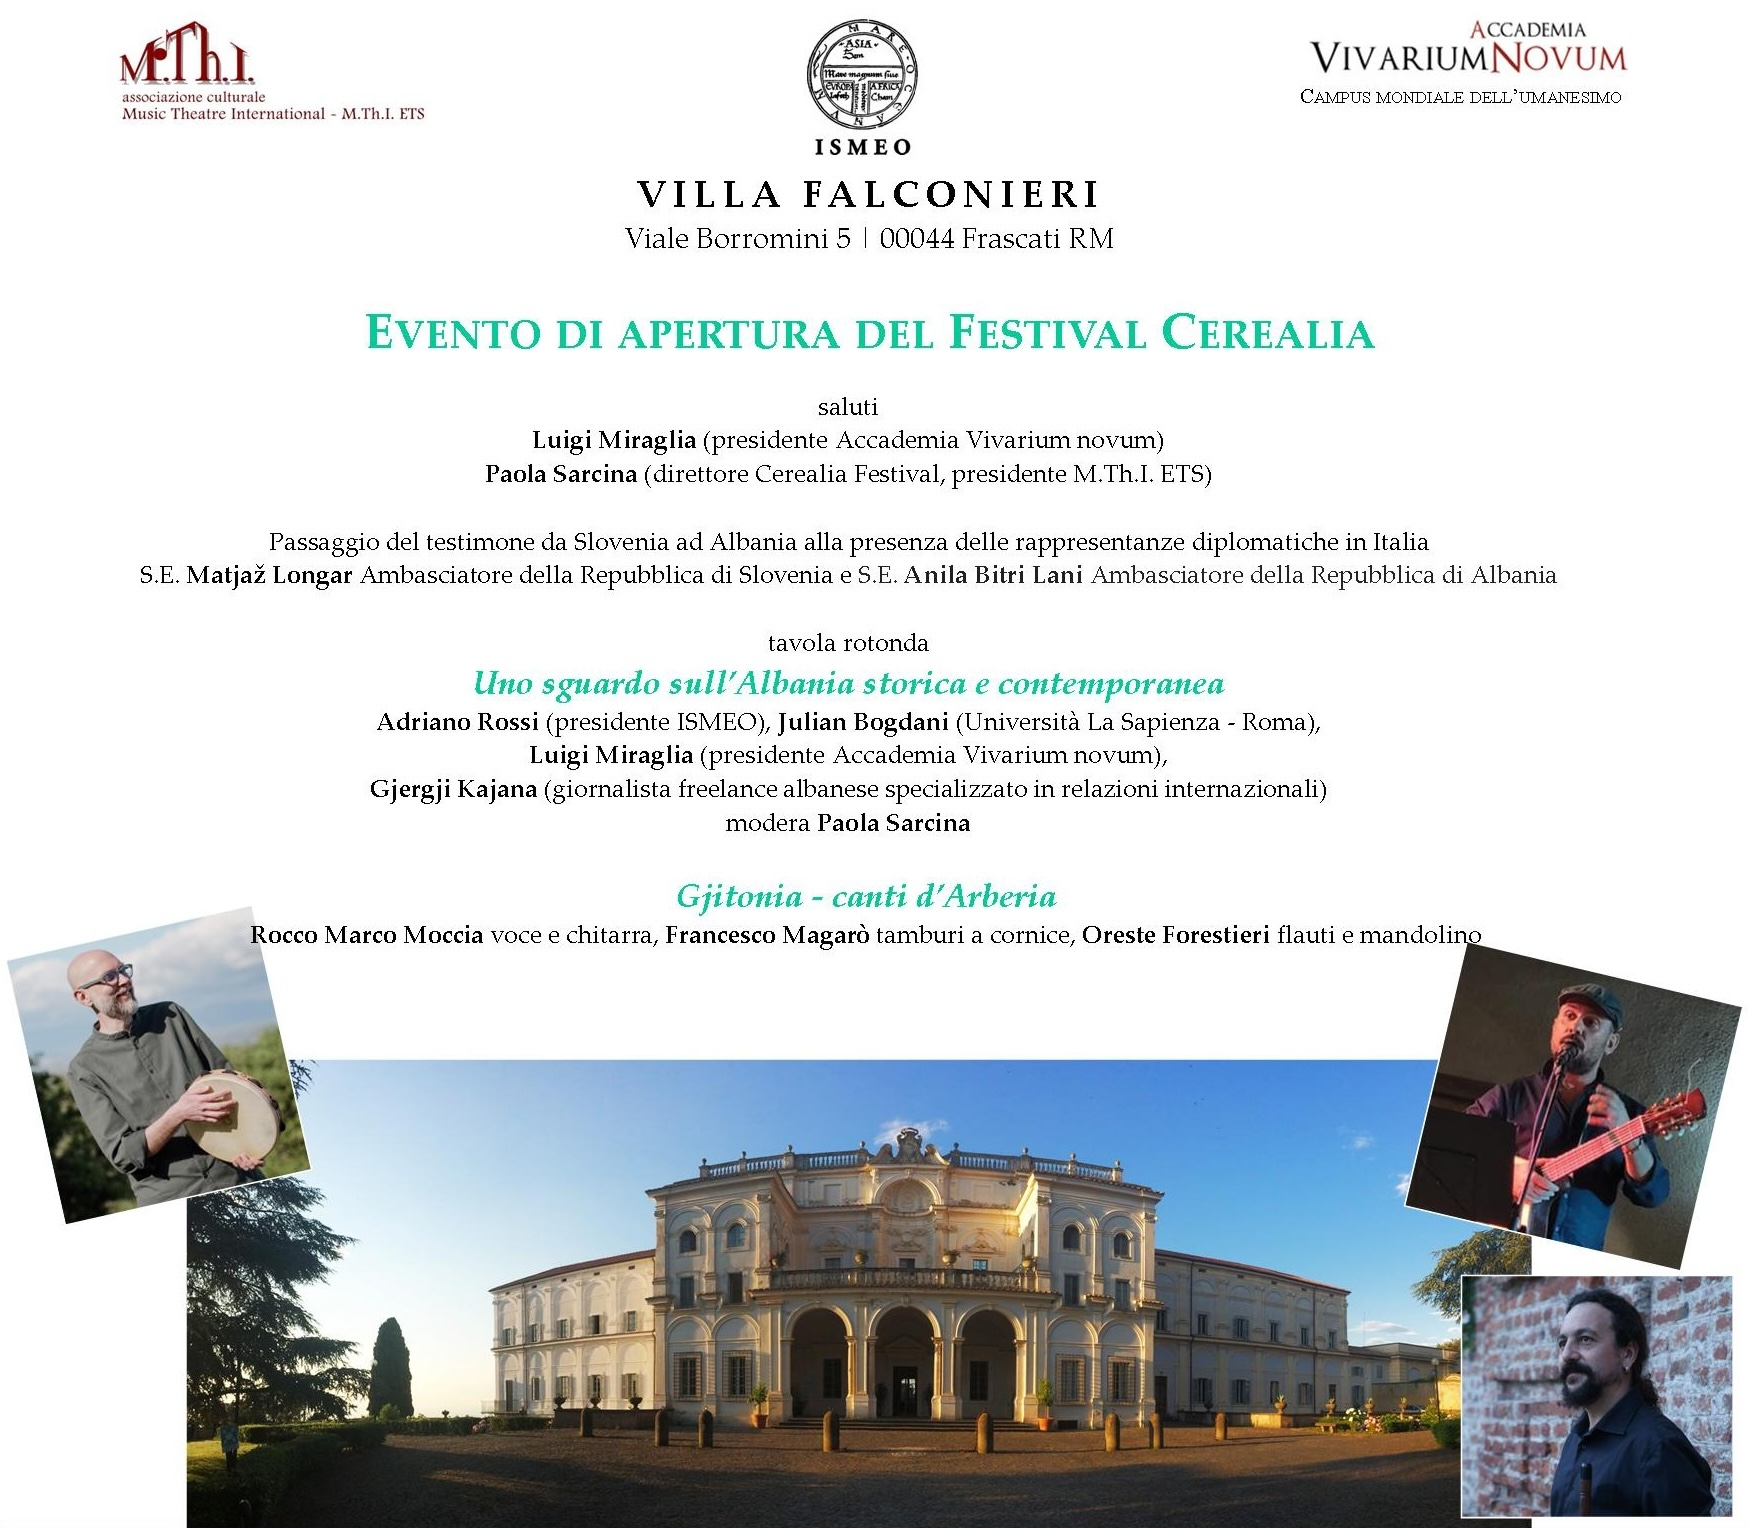
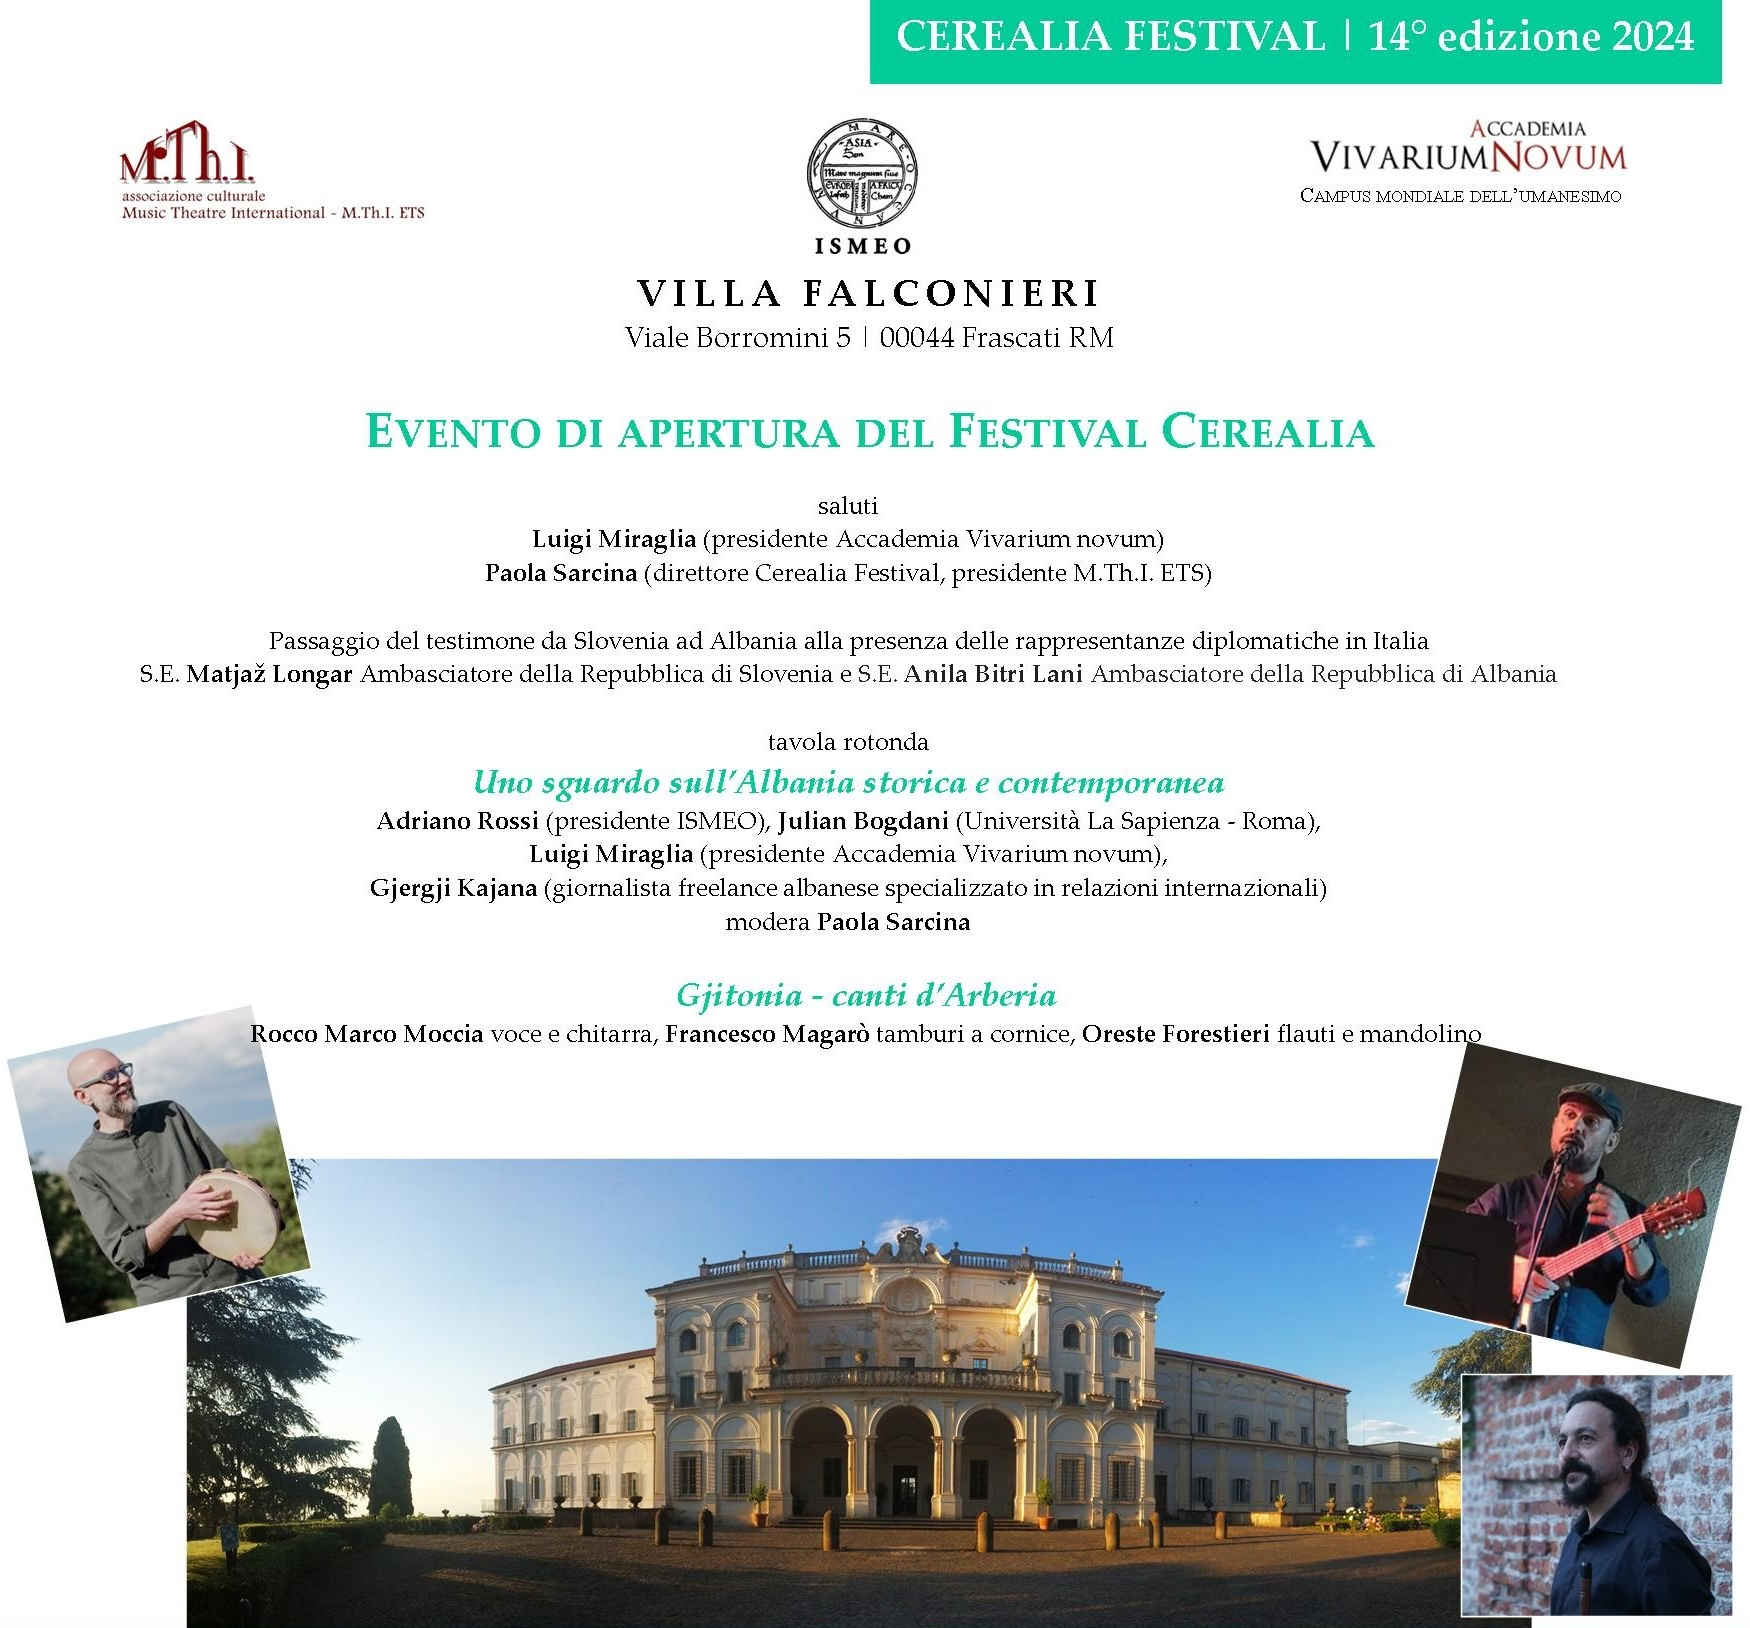
Updated cerealia

Changed region(s): [[0.0, 0.0, 1.0, 1.0], [0.0617, 0.0, 0.1851, 0.1538]]

diff --git a/posts/notizie/2024-09-14-apertura-14-cerealia-festival/index.md b/posts/notizie/2024-09-14-apertura-14-cerealia-festival/index.md
@@ -7,7 +7,7 @@ inhome: true
 ---
 
 
-Il prossimo 14 settembre, il direttore della Missione Archeologica della italo-albanese (Sapienza - Istituto Archeologico Albanese) Julian Bogdani parteciperà alla cerimonia di apertura della 14° edizione di Cerealia Festival, organizato dall’associazione culturale **Music Theatre International - M.Th.I. ETS**, in collaborazione con l'*Associazione Internazionale di Studi sul Mediterraneo e l’Oriente ISMEO* e l'*Accademia Vivarium Novum*, con il patrocinio del **Ministero dell'agricoltura, della sovranità alimentare e delle foreste MASAF**, dell'**Ambasciata della Repubblica di Albania**, della **Regione Lazio**, di **Roma Capitale**, e del **Associazione Regionale Giornalisti Agricoltura Alimentazione Ambiente Territorio Turismo rurale Foreste Pesca Energie rinnovabili ARGA Lazio**.
+Il prossimo 14 settembre, il direttore della Missione Archeologica della italo-albanese (Sapienza - Istituto Archeologico Albanese) Julian Bogdani parteciperà alla cerimonia di apertura della 14° edizione di Cerealia Festival, organizato dall’associazione culturale **Music Theatre International - M.Th.I. ETS**, in collaborazione con l'**Associazione Internazionale di Studi sul Mediterraneo e l’Oriente (ISMEO)** e l'**Accademia Vivarium Novum**, con il patrocinio del **Ministero dell'Agricoltura, della Aovranità Alimentare e delle Foreste (MASAF)**, del **Ministero degli Affari Esteri e della Cooperazione Internazionale (MAECI)** dell'**Ambasciata della Repubblica di Albania**, della **Regione Lazio**, di **Roma Capitale**, e del **Associazione Regionale Giornalisti Agricoltura Alimentazione Ambiente Territorio Turismo rurale Foreste Pesca Energie rinnovabili (ARGA) Lazio**.
 
 Il festival ha riveuto:
 - EFFE LABEL Festival Europeo di Eccellenza (dal 2015 al 2025),
